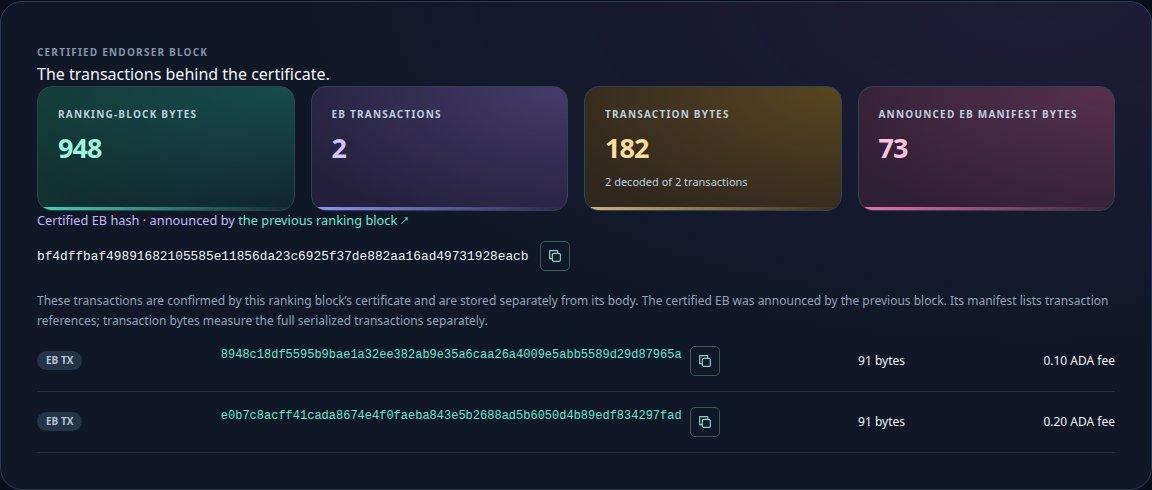
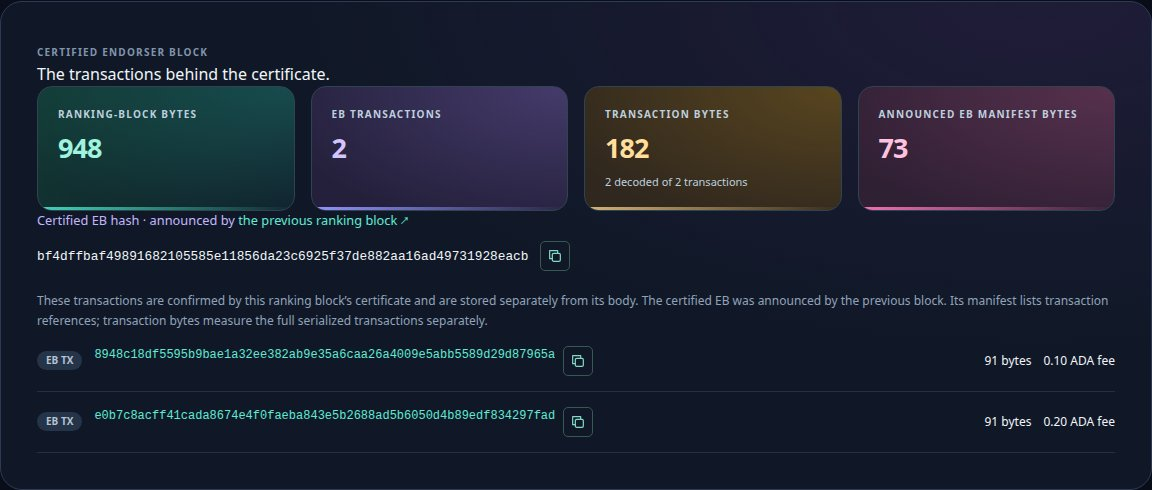
fix: validate block transaction framing and era selection

diff --git a/src/lib/explorer/leiosTransactions.ts b/src/lib/explorer/leiosTransactions.ts
@@ -20,23 +20,55 @@ export function decodeLeiosTransaction(row: { tx_hash: string; cbor: string }): 
   const body = new Core.CborReader(Core.HexBlob.fromBytes(bodyBytes));
   body.readStartMap();
   let fee: bigint | undefined;
+  let auxiliaryHash: string | undefined;
   while (body.peekState() !== Core.CborReaderState.EndMap) {
-    if (body.readUInt() === 2n) {
+    const key = body.readUInt();
+    if (key === 2n) {
       if (fee !== undefined) throw new Error("Duplicate transaction fee.");
       fee = body.readUInt();
+    } else if (key === 7n) {
+      const hash = body.readByteString();
+      if (auxiliaryHash !== undefined || hash.length !== 32) throw new Error("Invalid auxiliary data hash.");
+      auxiliaryHash = Core.toHex(hash);
     } else body.skipValue();
   }
   body.readEndMap();
   if (body.getBytesRemaining() || fee === undefined) throw new Error("Missing or invalid transaction fee.");
-  reader.skipValue();
-  reader.skipValue();
+  reader.readStartMap();
+  while (reader.peekState() !== Core.CborReaderState.EndMap) { reader.readUInt(); reader.skipValue(); }
+  reader.readEndMap();
+  const auxiliary = reader.readEncodedValue();
+  const aux = new Core.CborReader(Core.HexBlob.fromBytes(auxiliary));
+  const skipMap = () => {
+    aux.readStartMap();
+    while (aux.peekState() !== Core.CborReaderState.EndMap) { aux.skipValue(); aux.skipValue(); }
+    aux.readEndMap();
+  };
+  if (aux.peekState() === Core.CborReaderState.Null) {
+    aux.readNull();
+    if (auxiliaryHash !== undefined) throw new Error("Missing auxiliary data.");
+  } else {
+    if (aux.peekState() === Core.CborReaderState.Tag) {
+      if (Number(aux.readTag()) !== 259) throw new Error("Invalid auxiliary data tag.");
+      skipMap();
+    } else if (aux.peekState() === Core.CborReaderState.StartArray) {
+      if (aux.readStartArray() !== 2) throw new Error("Invalid auxiliary data array.");
+      skipMap();
+      aux.readStartArray();
+      while (aux.peekState() !== Core.CborReaderState.EndArray) aux.skipValue();
+      aux.readEndArray();
+      aux.readEndArray();
+    } else skipMap();
+    if (auxiliaryHash !== Core.blake2b_256(Core.HexBlob.fromBytes(auxiliary))) throw new Error("Auxiliary data does not match its hash.");
+  }
+  if (aux.getBytesRemaining()) throw new Error("Trailing auxiliary data.");
   const valid = reader.readBoolean();
   reader.readEndArray();
   if (reader.getBytesRemaining()) throw new Error("Trailing Dijkstra transaction bytes.");
   return { hash: row.tx_hash, bytes: row.cbor.length / 2, fee, valid };
 }
 
-export async function readLeiosTransactionPage(hash: string, page: number, signal?: AbortSignal) {
+export async function readLeiosTransactionPage(hash: string, page: number, dijkstra: boolean, signal?: AbortSignal) {
   const raw = await blockfrostFetch<{ tx_hash: string; cbor: string }[]>(
     `/api/v0/blocks/${hash}/txs/cbor?page=${page}&count=${LEIOS_TRANSACTION_PAGE_SIZE}&order=asc`,
     { signal },
@@ -45,7 +77,21 @@ export async function readLeiosTransactionPage(hash: string, page: number, signa
   const records: LeiosTransaction[] = [];
   const errors: { hash: string | null; message: string }[] = [];
   for (const row of raw) {
-    try { records.push(decodeLeiosTransaction(row)); }
+    try {
+      if (dijkstra) records.push(decodeLeiosTransaction(row));
+      else {
+        const reader = new Core.CborReader(Core.HexBlob(row.cbor));
+        const length = reader.readStartArray();
+        if (length !== 3 && length !== 4) throw new Error("Invalid legacy transaction envelope.");
+        const bodyBytes = reader.readEncodedValue();
+        for (let i = 1; i < length; i++) reader.skipValue();
+        reader.readEndArray();
+        if (reader.getBytesRemaining()) throw new Error("Trailing transaction data.");
+        const tx = Core.Transaction.fromCbor(Core.TxCBOR(row.cbor));
+        if (Core.blake2b_256(Core.HexBlob.fromBytes(bodyBytes)) !== row.tx_hash) throw new Error("Transaction hash does not match its body.");
+        records.push({ hash: row.tx_hash, bytes: row.cbor.length / 2, fee: tx.body().fee(), valid: tx.isValid() });
+      }
+    }
     catch (error) { errors.push({ hash: typeof row?.tx_hash === "string" && /^[a-f0-9]{64}$/.test(row.tx_hash) ? row.tx_hash : null, message: error instanceof Error ? error.message : "Cannot decode transaction." }); }
   }
   return { records, errors, count: raw.length };

diff --git a/src/components/explorer/LeiosTransactions.test.tsx b/src/components/explorer/LeiosTransactions.test.tsx
@@ -9,8 +9,8 @@ import { blockfrostFetch } from "../../lib/dingo/blockfrost";
 
 vi.mock("../../lib/dingo/config", () => ({ DINGO_NETWORK: { id: "musashi" } }));
 vi.mock("../../lib/dingo/blockfrost", () => ({ blockfrostFetch: vi.fn() }));
-vi.mock("../../lib/dingo/blockHeader", () => ({ blockBytesQuery: (hash: string) => queryOptions({ queryKey: ["native", hash], queryFn: async () => new Uint8Array([hash === "parent" ? 1 : 2]) }) }));
-vi.mock("../../lib/dingo/leios", () => ({ decodeLeiosBlock: (bytes: Uint8Array) => ({ certified: bytes[0] === 2, announcement: { hash: (bytes[0] === 1 ? "aa" : "bb").repeat(32), bytes: bytes[0] === 1 ? 90000 : 80000 } }) }));
+vi.mock("../../lib/dingo/blockHeader", () => ({ blockBytesQuery: (hash: string) => queryOptions({ queryKey: ["native", hash], queryFn: async () => new Uint8Array([hash === "legacy" ? 0x84 : 0x82, hash === "parent" ? 1 : hash === "legacy" || hash === "unextended" ? 3 : 2]) }) }));
+vi.mock("../../lib/dingo/leios", () => ({ decodeLeiosBlock: (bytes: Uint8Array) => bytes[1] === 3 ? null : ({ certified: bytes[1] === 2, announcement: { hash: (bytes[1] === 1 ? "aa" : "bb").repeat(32), bytes: bytes[1] === 1 ? 90000 : 80000 } }) }));
 
 it.each(["Load next 100 transactions", "Read all transaction sizes"])("shows certified EB identity, sizes, links and partial records using %s", async (action) => {
   const body = "a300800180021a00030d40", hash = Core.blake2b_256(Core.HexBlob(body)), cbor = `84${body}a0f6f5`;
@@ -41,6 +41,25 @@ it.each(["Load next 100 transactions", "Read all transaction sizes"])("shows cer
     expect(container.textContent).toContain("1 transactions could not be decoded");
     expect(container.textContent).toContain("Loaded transaction bytes");
     expect(container.textContent).not.toContain("Load next 100");
+  } finally {
+    await act(async () => root.unmount()); client.clear();
+    notifyManager.setScheduler((callback) => setTimeout(callback, 0));
+  }
+});
+
+it.each(["legacy", "unextended"])("keeps transactions viewable for %s native blocks without a Leios observation", async (kind) => {
+  const body = "a300800180021a00030d40";
+  const hash = Core.blake2b_256(Core.HexBlob(body));
+  const cbor = `84${body}a0${kind === "legacy" ? "f5f6" : "f6f5"}`;
+  vi.mocked(blockfrostFetch).mockResolvedValue([{ tx_hash: hash, cbor }]);
+  const client = new QueryClient({ defaultOptions: { queries: { retry: false } } });
+  const container = document.createElement("div"), root = createRoot(container);
+  notifyManager.setScheduler(queueMicrotask);
+  try {
+    await act(async () => root.render(<QueryClientProvider client={client}><MemoryRouter><LeiosTransactions block={{ hash: kind, height: 10, slot: 100, previous_block: "parent", tx_count: 1, time: 0, epoch: 1, epoch_slot: 1, size: 2, slot_leader: "pool" }} /></MemoryRouter></QueryClientProvider>));
+    await act(async () => { await new Promise((resolve) => setTimeout(resolve, 20)); });
+    expect(container.textContent).toContain("1 decoded of 1 transactions");
+    expect(container.textContent).not.toContain("could not be decoded");
   } finally {
     await act(async () => root.unmount()); client.clear();
     notifyManager.setScheduler((callback) => setTimeout(callback, 0));

diff --git a/src/components/explorer/LeiosTransactions.tsx b/src/components/explorer/LeiosTransactions.tsx
@@ -1,4 +1,5 @@
 import { useCallback, useEffect, useRef, useState } from "react";
+import { Core } from "@blaze-cardano/sdk";
 import { useInfiniteQuery, useQuery, useQueryClient } from "@tanstack/react-query";
 import { DINGO_NETWORK } from "../../lib/dingo/config";
 import { blockfrostFetch } from "../../lib/dingo/blockfrost";
@@ -23,7 +24,7 @@ function Transactions({ block }: { block: BlockSummary }) {
   const mounted = useRef(true);
   useEffect(() => { mounted.current = true; return () => { mounted.current = false; }; }, []);
   const client = useQueryClient();
-  const select = useCallback((bytes: Uint8Array) => ({ observation: decodeLeiosBlock(bytes, block), bytes: bytes.length }), [block]);
+  const select = useCallback((bytes: Uint8Array) => ({ observation: decodeLeiosBlock(bytes, block), bytes: bytes.length, dijkstra: new Core.CborReader(Core.HexBlob.fromBytes(bytes)).readStartArray() === 2 }), [block]);
   const native = useQuery({ ...blockBytesQuery(block.hash, block.slot), select });
   const parent = useQuery({
     queryKey: ["dingo", "block", block.hash, "certified-announcement"],
@@ -41,10 +42,13 @@ function Transactions({ block }: { block: BlockSummary }) {
     retry: false,
   });
   const transactions = useInfiniteQuery({
-    queryKey: ["dingo", "block", block.hash, "leios-transactions"],
+    queryKey: ["dingo", "block", block.hash, "leios-transactions", native.data?.dijkstra],
     enabled: native.isSuccess && block.tx_count > 0,
     initialPageParam: 1,
-    queryFn: ({ pageParam, signal }) => readLeiosTransactionPage(block.hash, pageParam, signal),
+    queryFn: ({ pageParam, signal }) => {
+      if (!native.data) throw new Error("Native block format is unavailable.");
+      return readLeiosTransactionPage(block.hash, pageParam, native.data.dijkstra, signal);
+    },
     getNextPageParam: (last, pages) => last.count === LEIOS_TRANSACTION_PAGE_SIZE && pages.reduce((sum, page) => sum + page.count, 0) < block.tx_count ? pages.length + 1 : undefined,
     staleTime: Infinity,
     retry: false,
@@ -75,10 +79,10 @@ function Transactions({ block }: { block: BlockSummary }) {
       </header>
       {native.isLoading && <p role="status">Reading the ranking block…</p>}
       {native.error && <p role="alert">{native.error.message} <button type="button" onClick={() => void native.refetch()}>Retry native block</button></p>}
-      
+
       {native.data && <>
         <div className="metric-grid">
-          <Metric label="Ranking-block bytes" value={native.data.bytes.toLocaleString()} />
+          <Metric label={native.data.dijkstra ? "Ranking-block bytes" : "Block bytes"} value={native.data.bytes.toLocaleString()} />
           <Metric label={certified ? "EB transactions" : "Ranking-body transactions"} value={block.tx_count.toLocaleString()} />
           <Metric label={complete ? "Transaction bytes" : "Loaded transaction bytes"} value={transactions.data || block.tx_count === 0 ? bytes.toLocaleString() : "—"} detail={`${records.length.toLocaleString()} decoded of ${block.tx_count.toLocaleString()} transactions`} />
           {certified && <Metric label="Announced EB manifest bytes" value={parent.data?.bytes.toLocaleString() ?? "—"} />}

diff --git a/src/lib/explorer/leiosTransactions.test.ts b/src/lib/explorer/leiosTransactions.test.ts
@@ -15,3 +15,15 @@ it("rejects a mismatched body hash", () => {
 it.each([`84${body}a0f5f6`, `84${body}a0f6f500`, "8300", "xyz"])("rejects malformed and legacy envelopes: %s", (cbor) => {
   expect(() => decodeLeiosTransaction({ tx_hash: hash, cbor })).toThrow();
 });
+
+it.each([`84${body}00f6f5`, `84${body}a000f5`])("rejects invalid witness and auxiliary structures: %s", (cbor) => {
+  expect(() => decodeLeiosTransaction({ tx_hash: hash, cbor })).toThrow();
+});
+
+it.each(["a0", "82a080", "d90103a0"])("accepts valid Dijkstra auxiliary encoding %s with its body commitment", (auxiliary) => {
+  const transactionBody = Core.TransactionBody.fromCbor(Core.HexBlob(body));
+  transactionBody.setAuxiliaryDataHash(Core.blake2b_256(Core.HexBlob(auxiliary)));
+  const encoded = String(transactionBody.toCbor());
+  const cbor = `84${encoded}a0${auxiliary}f5`;
+  expect(decodeLeiosTransaction({ tx_hash: Core.blake2b_256(Core.HexBlob(encoded)), cbor }).bytes).toBe(cbor.length / 2);
+});

diff --git a/src/components/explorer/leios.css b/src/components/explorer/leios.css
@@ -159,11 +159,12 @@
   align-items: center;
   gap: 12px;
 }
-.leios-transaction-list li > a {
+.leios-transaction-list li > .address-identifier {
   min-width: 0;
   overflow-wrap: anywhere;
   flex: 1 1 220px;
 }
+.leios-transaction-list .address-identifier > a { white-space: normal; overflow-wrap: anywhere; }
 .leios-inspection h3 {
   font-size: 1.25rem;
   margin-top: 0.5rem;
